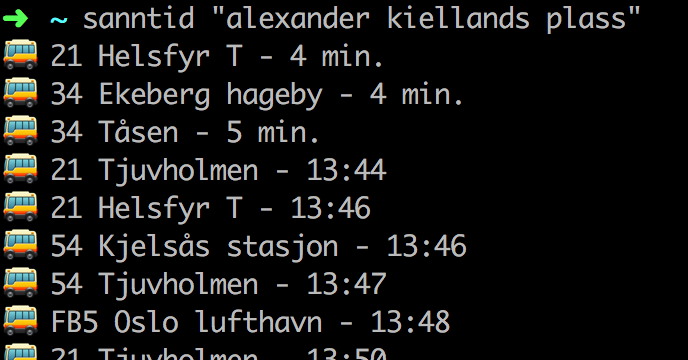
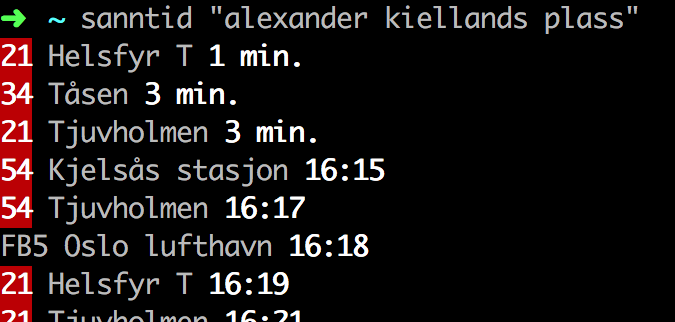
Change output to use official Ruter colours instead of emoji

diff --git a/sanntid.go b/sanntid.go
@@ -5,6 +5,8 @@ import (
 	"os"
 	"strconv"
 	"time"
+
+	"github.com/fatih/color"
 )
 
 const (
@@ -21,7 +23,6 @@ const (
 type Line struct {
 	Name        string
 	Destination string
-	VehicleMode int
 	Direction   sanntidDirection
 }
 
@@ -46,7 +47,6 @@ func getArrivals(locationID int, direction sanntidDirection) ([]Arrival, error) 
 				line := Line{
 					data[i].MonitoredVehicleJourney.PublishedLineName,
 					data[i].MonitoredVehicleJourney.DestinationName,
-					data[i].MonitoredVehicleJourney.VehicleMode,
 					lineDir,
 				}
 				arrival := Arrival{
@@ -63,33 +63,48 @@ func getArrivals(locationID int, direction sanntidDirection) ([]Arrival, error) 
 	return arrivals, err
 }
 
-func vehicleType(mode int) string {
-	switch mode {
-	case 0: // bus
-		return "🚌"
-	case 2: // train
-		return "🚄"
-	case 3: // tram
-		return "🚋"
-	case 4: // metro
-		return "🚈"
-	default:
-		return "❓"
+func formatLineName(name string) string {
+	lineNumber, err := strconv.ParseInt(name, 10, 0)
+	if err != nil || lineNumber <= 0 {
+		return name
 	}
+
+	yellowText := color.New(color.BgYellow, color.Bold).SprintFunc()
+	blueText := color.New(color.BgBlue, color.Bold).SprintFunc()
+	redText := color.New(color.BgRed, color.Bold).SprintFunc()
+	greenText := color.New(color.BgGreen, color.Bold).SprintFunc()
+
+	// Metro
+	if lineNumber < 10 {
+		return yellowText(name)
+	}
+
+	// Tram
+	if lineNumber < 20 {
+		return blueText(name)
+	}
+
+	// Bus
+	if lineNumber < 100 {
+		return redText(name)
+	}
+
+	return greenText(name)
 }
 
 func formatTime(arrivalTime time.Time) string {
+	boldText := color.New(color.Bold).SprintFunc()
 	timeUntilArrival := time.Until(arrivalTime)
 	if timeUntilArrival.Hours() > 0.1 {
-		return arrivalTime.Format("15:04")
+		return boldText(arrivalTime.Format("15:04"))
 	}
 
 	minutes := timeUntilArrival.Minutes()
 	if minutes < 1 {
-		return "now"
+		return boldText("now")
 	}
 
-	return fmt.Sprintf("%0.0f min.", minutes)
+	return boldText(fmt.Sprintf("%0.0f min.", minutes))
 }
 
 func showArrivals(locationID int) {
@@ -98,9 +113,8 @@ func showArrivals(locationID int) {
 	if err == nil {
 		for i := 0; i < len(arrivals); i++ {
 			fmt.Printf(
-				"%s  %s %s - %s \n",
-				vehicleType(arrivals[i].Line.VehicleMode),
-				arrivals[i].Line.Name,
+				"%s %s %s \n",
+				formatLineName(arrivals[i].Line.Name),
 				arrivals[i].Line.Destination,
 				formatTime(arrivals[i].ExpectedArrivalTime),
 			)
